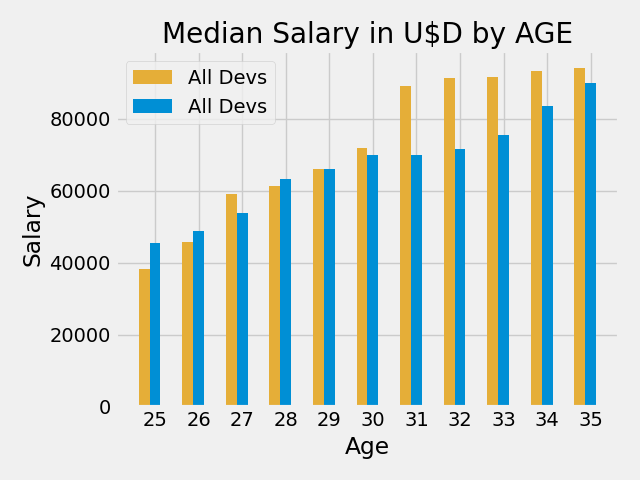
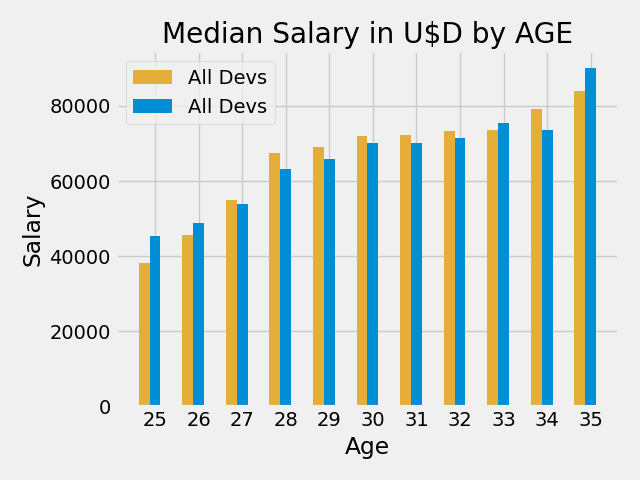
added histogram

diff --git a/studies/datavisualization.py b/studies/datavisualization.py
@@ -1,3 +1,4 @@
+from re import T
 from matplotlib import pyplot as plt
 import numpy as np
 import pandas as pd
@@ -6,10 +7,10 @@ from collections import Counter
 plt.style.use('fivethirtyeight')
 
 ages_x = [25, 26, 27, 28, 29, 30, 31, 32, 33, 34, 35]
-dev_y = [38200, 45600, 59033, 61344, 66124,
-         71856, 89167, 91178, 91699, 93200, 94000]
+dev_y = [38200, 45600, 55033, 67344, 69124,
+         71856, 72167, 73178, 73699, 79200, 84000]
 py_dev_y = [45372, 48876, 53850, 63106, 65889,
-            70003, 70000, 71496, 75370, 83650, 90000]
+            70003, 70000, 71496, 75370, 73650, 90000]
 
 x_indexes = np.arange(len(ages_x))
 width = 0.25
@@ -29,13 +30,21 @@ for item in language_counter.most_common(6):
 
 print(list(zip(languages, popularity)))
 
+dframe = pd.DataFrame({"Age":ages_x,"Python_Dev": py_dev_y, "All_Devs" : dev_y})
+dframe.set_index("Age", inplace=True)
+# dframe["Difference"] = dframe["Python_Dev"].apply(lambda x: x - dframe["All_Devs"])
+dframe["Difference"] = dframe["Python_Dev"] - dframe["All_Devs"]
 
+print(dframe)
 # ******************LINE GRAPH ***************************************
 plt.plot(ages_x,dev_y, color ='k', linestyle = '--', marker='+', label = "All Devs")
 plt.plot(ages_x,py_dev_y,marker = 'o', linewidth = 3, label = "Python Devs") #arguments are x axis, yaxis, format (eg color followed by type of line), legend label
 plt.title('Median Salary in U$D by AGE')
 plt.xlabel('Age')
 plt.ylabel('Salary')
+# med = np.median(py_dev_y)
+plt.fill_between(ages_x, py_dev_y, dev_y, where=py_dev_y <= dev_y, interpolate= True, color='red', alpha =0.25)
+plt.fill_between(ages_x, py_dev_y, dev_y, where=py_dev_y >= dev_y, interpolate= True,color = 'k', alpha =0.25)
 plt.legend() #Passing values in a list on first plot first legend label bases
 plt.grid(True)
 plt.tight_layout()
@@ -117,7 +126,17 @@ for x in x_f:
 
 plt.plot(x_f,f_s)
 plt.xlabel("Angle in Degrees")
-plt.xticks(f_s)
+# plt.xticks(f_s)
 plt.ylabel("f(Sin(x))")
 plt.tight_layout()
+plt.show()
+
+################################ Histograms ###########################################
+
+ages = [18,19,20,18,20,18,19,23,22,23,23,23,25,26,27,28,28,29,30,31,32,35,35,45,55]
+bins = [10,20,30,40,50,60]
+med = np.median(ages)
+plt.hist(ages, bins=bins, edgecolor = 'black' ) #can add log = True in parameters to display y vlaues as power of 10
+plt.axvline(med, label = "median line", color = 'red', linewidth = 2)
+plt.legend()
 plt.show()
